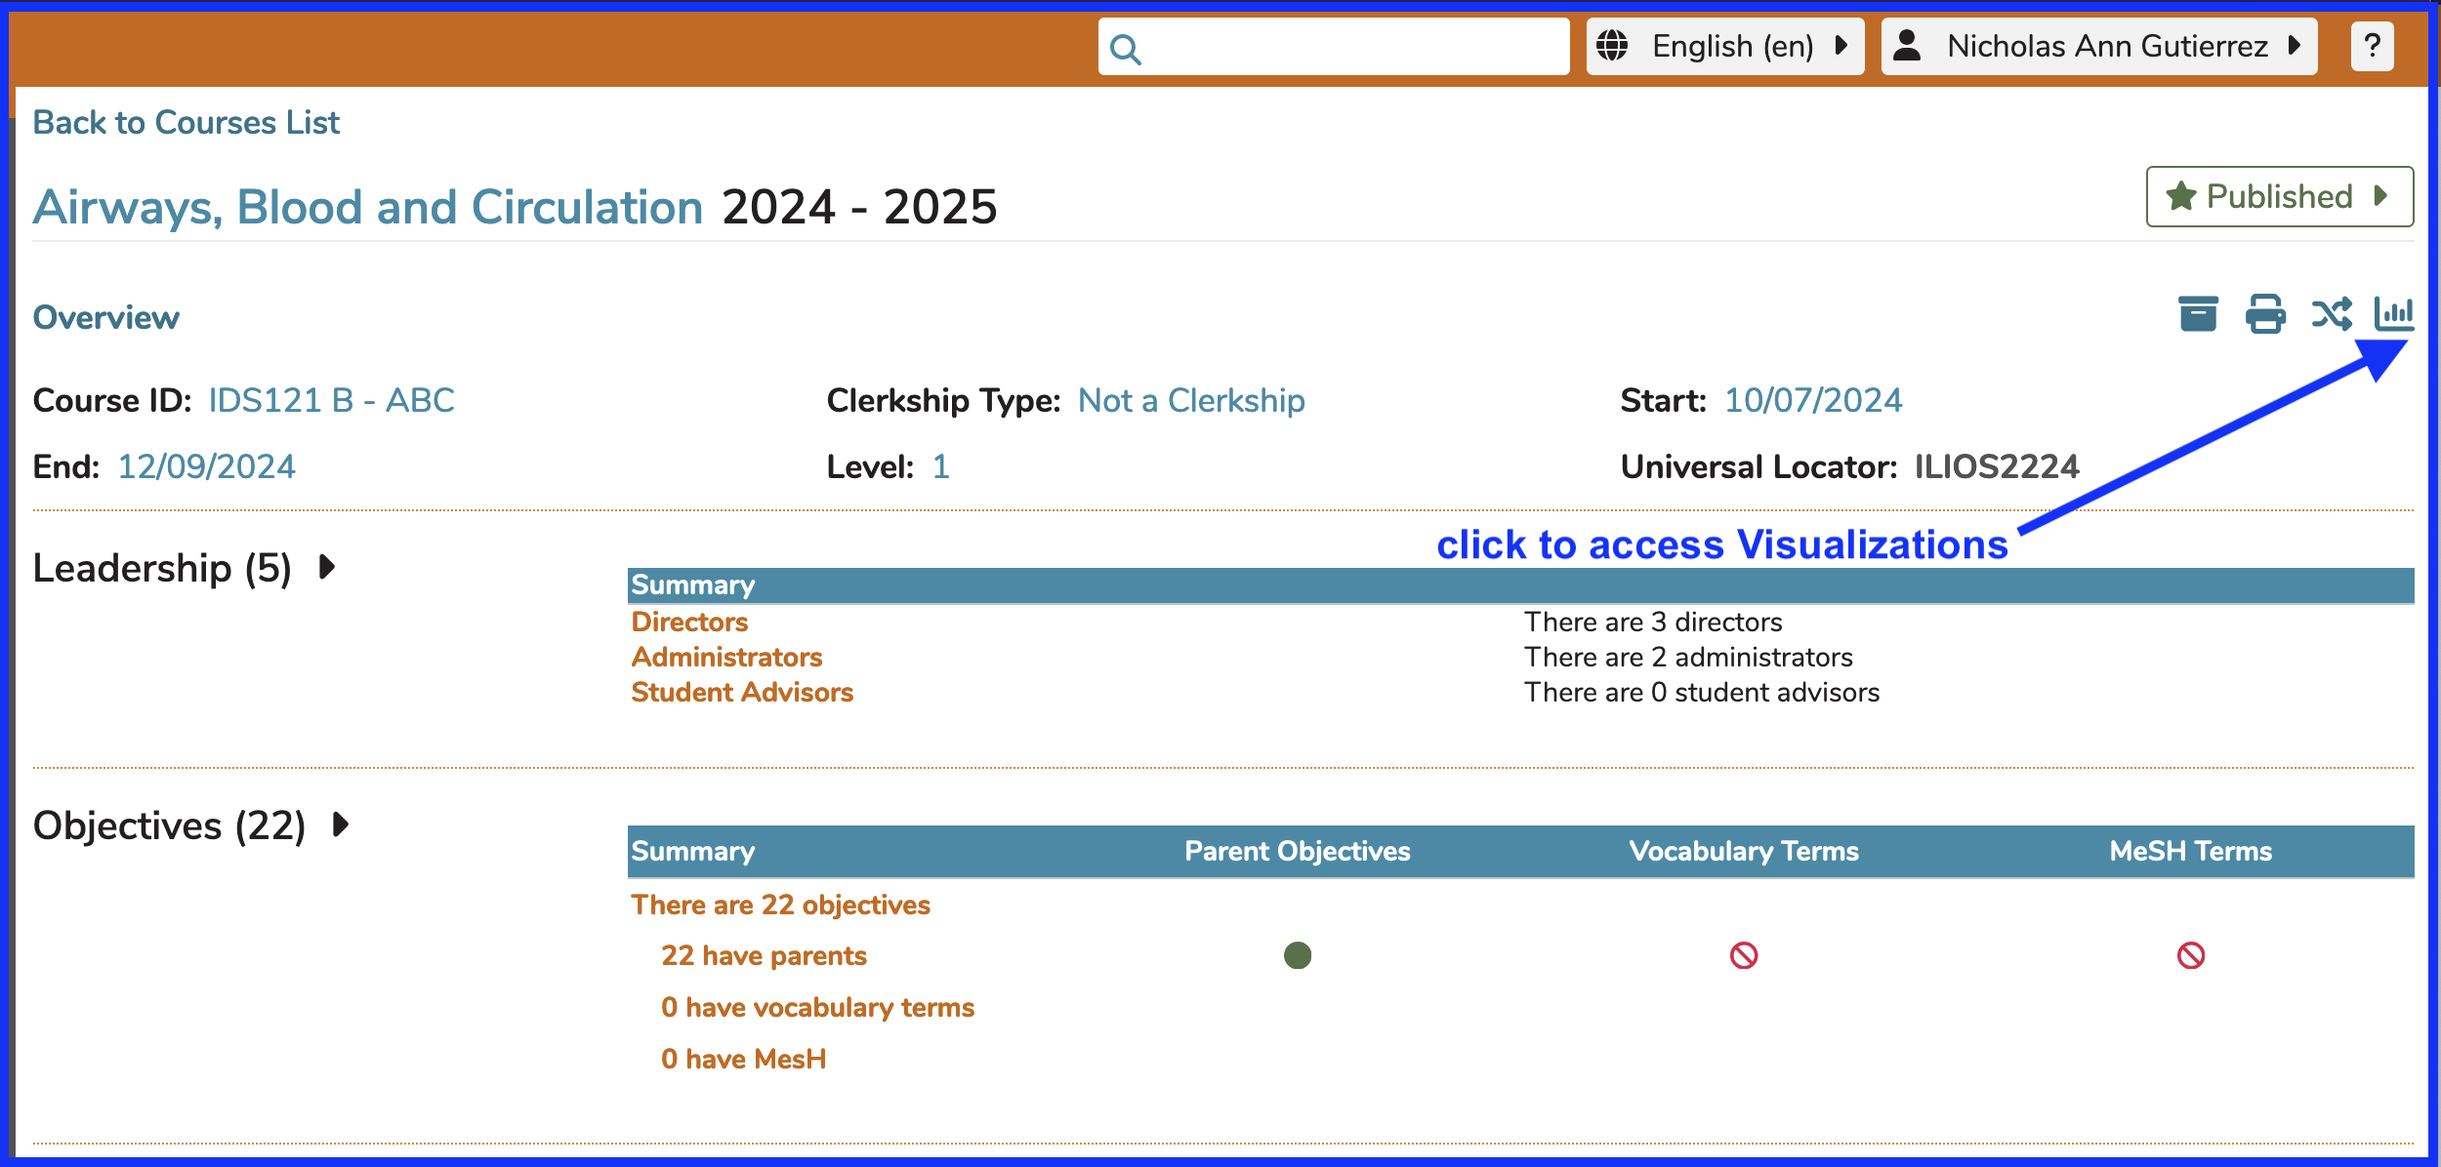
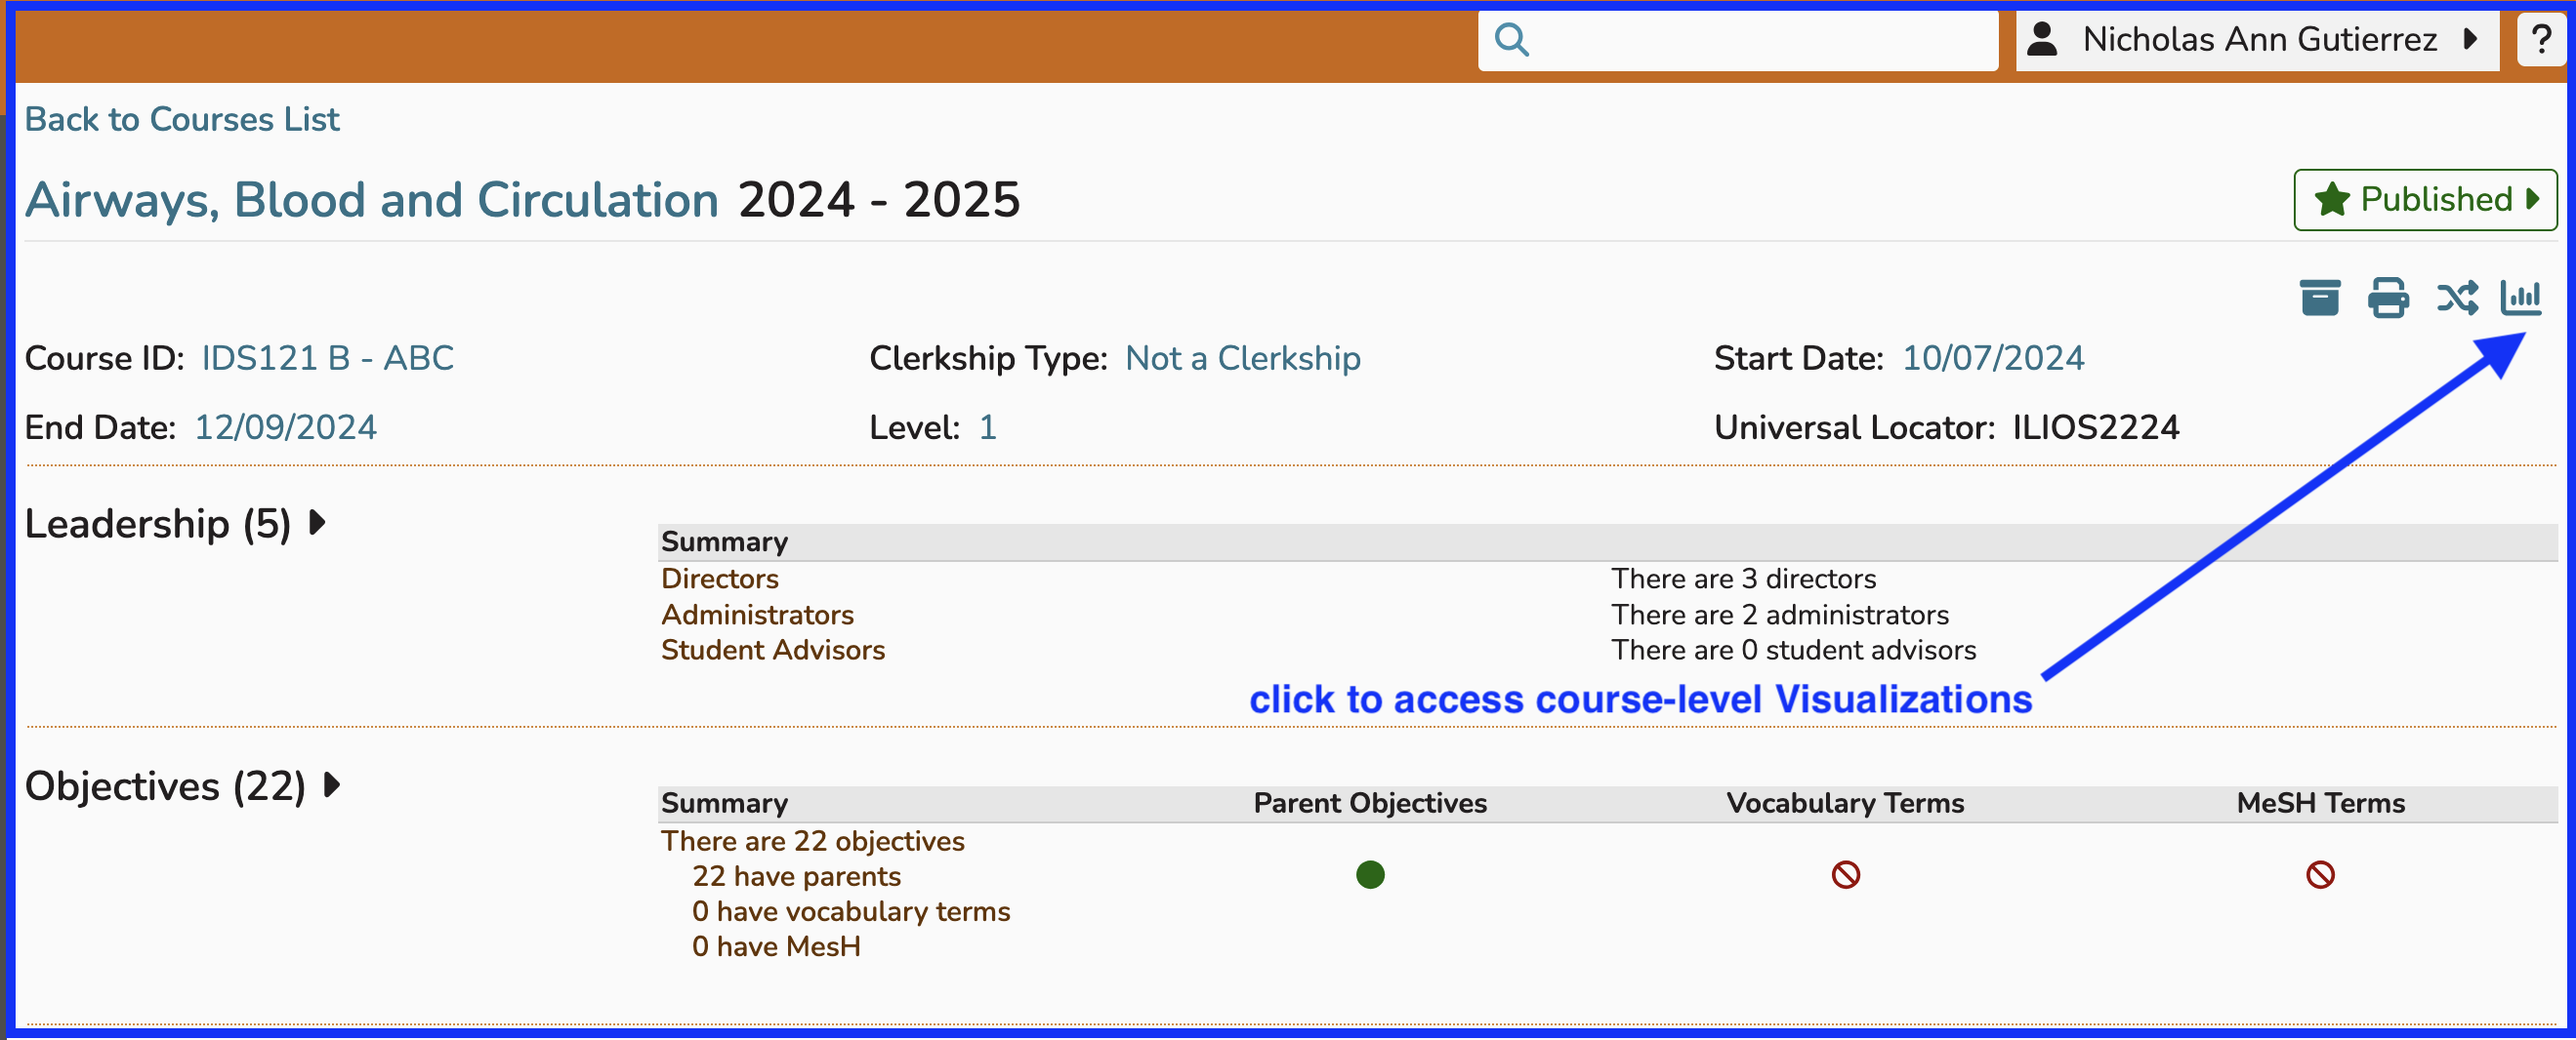
image updated - text added

Changed region(s): [[0.0, 0.0, 1.0, 1.0], [0.3432, 0.3096, 0.5304, 0.4334], [0.8736, 0.3715, 0.9048, 0.4024]]

diff --git a/courses-and-sessions/courses/visualizations.md b/courses-and-sessions/courses/visualizations.md
@@ -6,6 +6,8 @@ description: >-
 
 Visualization are graphs and charted information intended to help make informed decisions about how Ilios is being used, especially as far as tagging of curricular objects is concerned, and how this use could be improved.
 
+The view below shows the course in expanded (Show Details) mode.
+
 ![access course visualizations](../../images/course_visualizations/access_course_visualizations.png)
 
 After clicking on the graph icon as shown above, you will see a screen similar to the following with (at the time of update) four different visualizations available to review.
